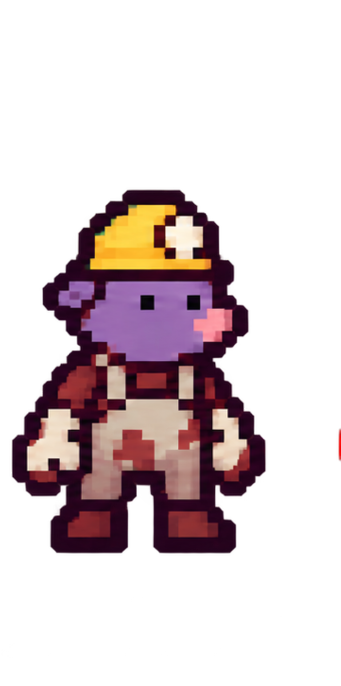
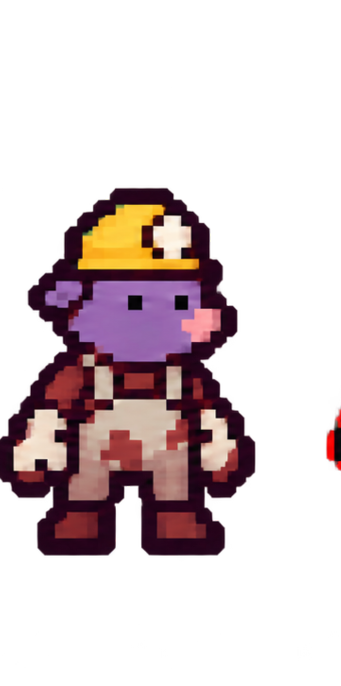
Brighten buried photos and intensify mole scribbles

Changed region(s): [[0.0, 0.2755, 0.7918, 0.8265], [0.9384, 0.5816, 1.0, 0.7041], [0.3519, 0.4286, 0.4692, 0.4592]]

diff --git a/index.html b/index.html
@@ -7,7 +7,7 @@
 *{box-sizing:border-box}html{scroll-behavior:smooth}body{margin:0;background:var(--bg);color:var(--text);font-family:'Malgun Gothic','Apple SD Gothic Neo',sans-serif}main{width:min(1180px,calc(100% - 28px));margin:auto;padding:26px 0 56px}header{display:flex;align-items:end;justify-content:space-between;gap:18px;border-bottom:1px solid var(--line);padding-bottom:18px}h1,h2,h3,p{margin:0}h1{font-size:28px;font-weight:700;color:var(--hot)}h2{font-size:21px;color:var(--mint);margin:36px 0 14px}h3{font-size:17px}.summary{display:flex;gap:18px;flex-wrap:wrap;color:var(--muted)}.summary b{color:var(--text);font-variant-numeric:tabular-nums}nav{position:sticky;top:0;z-index:2;background:rgba(18,9,28,.94);border-bottom:1px solid var(--line);display:flex;gap:18px;padding:12px 0;margin-bottom:4px}a{color:var(--text);text-decoration:none}a:hover{color:var(--hot)}.layers{display:grid;gap:10px}.layer{display:grid;grid-template-columns:120px minmax(150px,.65fr) 1.7fr 170px;gap:16px;align-items:center;background:var(--panel);padding:14px}.layer-visual{height:82px;display:grid;grid-template-columns:1fr 1fr;gap:4px}.layer-visual img{width:100%;height:82px;object-fit:contain;image-rendering:pixelated;background:var(--panel2)}.range{color:var(--gold);margin-top:6px;font-variant-numeric:tabular-nums}.meta{display:grid;grid-template-columns:repeat(2,minmax(0,1fr));gap:5px 12px;color:var(--muted);font-size:13px}.meta b{color:var(--text)}.spawns{display:flex;flex-wrap:wrap;gap:8px}.spawn{display:flex;align-items:center;gap:5px;background:var(--panel2);padding:5px 7px;font-size:12px;color:var(--muted)}.spawn img{width:24px;height:24px;object-fit:contain;image-rendering:pixelated}.income{text-align:right;font-variant-numeric:tabular-nums}.income b{display:block;color:var(--gold);font-size:17px}.income span{display:block;color:var(--muted);font-size:12px;margin-top:5px}.grid{display:grid;grid-template-columns:repeat(auto-fill,minmax(170px,1fr));gap:10px}.tile,.gear,.set{background:var(--panel);padding:13px;min-width:0}.tile-head,.gear-head{display:flex;align-items:center;gap:12px}.sprite{width:58px;height:58px;object-fit:contain;image-rendering:pixelated;flex:0 0 auto;background:var(--panel2)}.tile dl,.gear dl{display:grid;grid-template-columns:56px 1fr;gap:5px;margin:12px 0 0;font-size:12px}.tile dt,.gear dt{color:var(--muted)}.tile dd,.gear dd{margin:0;text-align:right;font-variant-numeric:tabular-nums}.set-grid{display:grid;grid-template-columns:repeat(auto-fit,minmax(230px,1fr));gap:10px}.set{display:grid;grid-template-columns:100px 1fr;gap:13px;align-items:center}.set img{width:100px;height:78px;object-fit:contain;image-rendering:pixelated;background:var(--panel2)}.price{color:var(--gold);margin-top:7px;font-variant-numeric:tabular-nums}.ability{color:var(--muted);font-size:13px;margin-top:7px;line-height:1.5}.note{color:var(--muted);font-size:12px;margin-top:-8px;margin-bottom:12px}@media(max-width:760px){header{align-items:start;flex-direction:column}.layer{grid-template-columns:92px 1fr}.spawns,.income{grid-column:1/-1}.income{text-align:left}.layer-visual,.layer-visual img{height:68px}.summary{gap:10px}.set-grid{grid-template-columns:1fr}}
 </style></head><body><main>
 <style>
-.landmark-grid{display:grid;grid-template-columns:repeat(auto-fit,minmax(260px,1fr));gap:10px}.landmark{background:var(--panel);padding:13px;display:grid;grid-template-columns:120px 1fr;gap:13px;align-items:center}.landmark img{width:120px;height:92px;object-fit:contain;image-rendering:pixelated;background:var(--panel2)}.landmark .meta{grid-template-columns:1fr}#horror{position:relative;margin-top:42px;padding:1px 14px 24px;background:radial-gradient(circle at 50% 88%,#260a22 0,#0a050d 54%,#030205 100%);box-shadow:0 0 55px #000 inset;overflow:hidden}#horror:before{content:' ';position:absolute;inset:0;pointer-events:none;background:repeating-linear-gradient(0deg,transparent 0 5px,rgba(255,25,104,.025) 6px 7px);mix-blend-mode:screen}.horror-stages{display:grid;gap:12px;position:relative}.horror-stage{background:#140a19;padding:13px;border:1px solid #2c142f}.horror-tiles{display:grid;grid-template-columns:repeat(8,minmax(0,1fr));gap:5px;margin-top:10px}.horror-tiles img{width:100%;aspect-ratio:1;object-fit:cover;image-rendering:pixelated;background:#09050c}.horror-grid{display:grid;grid-template-columns:1fr;gap:12px;margin-top:14px;position:relative}.horror-card{background:#120713;padding:13px;border:1px solid #3f143a}.horror-card h3{margin-bottom:10px}.horror-strip{display:grid;grid-template-columns:repeat(3,minmax(0,1fr));gap:6px}.horror-strip img{width:100%;height:110px;object-fit:contain;image-rendering:pixelated;background:#08040a}.horror-photo-card{position:relative;overflow:hidden;padding:18px;background:#030204;box-shadow:0 0 42px #000 inset,0 0 18px rgba(255,0,102,.18)}.horror-photo-card:before,.horror-photo-card:after{content:' ';position:absolute;left:-8%;width:116%;height:3px;z-index:2;pointer-events:none;opacity:.55}.horror-photo-card:before{top:31%;background:#ff176e;box-shadow:0 7px 0 #25d5df;animation:glitchLine 4.1s steps(1,end) infinite}.horror-photo-card:after{top:72%;background:#6c194f;animation:glitchLine 3.3s steps(1,end) reverse infinite}.horror-photo-card .horror-strip{gap:8px}.horror-photo-card img{height:190px;object-fit:cover;filter:brightness(.48) contrast(1.35) saturate(.72);animation:photoGlitch 5.6s steps(1,end) infinite}.horror-photo-card img:nth-child(2n){animation-delay:-1.7s}.horror-photo-card img:nth-child(3n){animation-delay:-3.2s}@keyframes glitchLine{0%,86%,100%{transform:translate(0,0)}87%{transform:translate(4%,36px)}89%{transform:translate(-3%,-22px)}91%{transform:translate(1%,9px)}}@keyframes photoGlitch{0%,91%,100%{transform:translate(0);clip-path:inset(0)}92%{transform:translate(-3px,1px);clip-path:inset(9% 0 58% 0)}94%{transform:translate(3px,-1px);clip-path:inset(57% 0 13% 0)}96%{transform:translate(-1px);clip-path:inset(0)}}@media(prefers-reduced-motion:reduce){.horror-photo-card:before,.horror-photo-card:after,.horror-photo-card img{animation:none}}@media(max-width:760px){.landmark{grid-template-columns:92px 1fr}.landmark img{width:92px}.horror-tiles{grid-template-columns:repeat(4,minmax(0,1fr))}.horror-photo-card img{height:120px}}
+.landmark-grid{display:grid;grid-template-columns:repeat(auto-fit,minmax(260px,1fr));gap:10px}.landmark{background:var(--panel);padding:13px;display:grid;grid-template-columns:120px 1fr;gap:13px;align-items:center}.landmark img{width:120px;height:92px;object-fit:contain;image-rendering:pixelated;background:var(--panel2)}.landmark .meta{grid-template-columns:1fr}#horror{position:relative;margin-top:42px;padding:1px 14px 24px;background:radial-gradient(circle at 50% 88%,#260a22 0,#0a050d 54%,#030205 100%);box-shadow:0 0 55px #000 inset;overflow:hidden}#horror:before{content:' ';position:absolute;inset:0;pointer-events:none;background:repeating-linear-gradient(0deg,transparent 0 5px,rgba(255,25,104,.025) 6px 7px);mix-blend-mode:screen}.horror-stages{display:grid;gap:12px;position:relative}.horror-stage{background:#140a19;padding:13px;border:1px solid #2c142f}.horror-tiles{display:grid;grid-template-columns:repeat(8,minmax(0,1fr));gap:5px;margin-top:10px}.horror-tiles img{width:100%;aspect-ratio:1;object-fit:cover;image-rendering:pixelated;background:#09050c}.horror-grid{display:grid;grid-template-columns:1fr;gap:12px;margin-top:14px;position:relative}.horror-card{background:#120713;padding:13px;border:1px solid #3f143a}.horror-card h3{margin-bottom:10px}.horror-strip{display:grid;grid-template-columns:repeat(3,minmax(0,1fr));gap:6px}.horror-strip img{width:100%;height:110px;object-fit:contain;image-rendering:pixelated;background:#08040a}.horror-photo-card{position:relative;overflow:hidden;padding:18px;background:#030204;box-shadow:0 0 42px #000 inset,0 0 18px rgba(255,0,102,.18)}.horror-photo-card:before,.horror-photo-card:after{content:' ';position:absolute;left:-8%;width:116%;height:3px;z-index:2;pointer-events:none;opacity:.55}.horror-photo-card:before{top:31%;background:#ff176e;box-shadow:0 7px 0 #25d5df;animation:glitchLine 4.1s steps(1,end) infinite}.horror-photo-card:after{top:72%;background:#6c194f;animation:glitchLine 3.3s steps(1,end) reverse infinite}.horror-photo-card .horror-strip{gap:8px}.horror-photo-card img{height:190px;object-fit:cover;filter:brightness(.62) contrast(1.28) saturate(.78);animation:photoGlitch 5.6s steps(1,end) infinite}.horror-photo-card img:nth-child(2n){animation-delay:-1.7s}.horror-photo-card img:nth-child(3n){animation-delay:-3.2s}@keyframes glitchLine{0%,86%,100%{transform:translate(0,0)}87%{transform:translate(4%,36px)}89%{transform:translate(-3%,-22px)}91%{transform:translate(1%,9px)}}@keyframes photoGlitch{0%,91%,100%{transform:translate(0);clip-path:inset(0)}92%{transform:translate(-3px,1px);clip-path:inset(9% 0 58% 0)}94%{transform:translate(3px,-1px);clip-path:inset(57% 0 13% 0)}96%{transform:translate(-1px);clip-path:inset(0)}}@media(prefers-reduced-motion:reduce){.horror-photo-card:before,.horror-photo-card:after,.horror-photo-card img{animation:none}}@media(max-width:760px){.landmark{grid-template-columns:92px 1fr}.landmark img{width:92px}.horror-tiles{grid-template-columns:repeat(4,minmax(0,1fr))}.horror-photo-card img{height:120px}}
 </style>
 <header><h1>DDDig 밸런스 도감</h1><div class="summary"><span>&#45320;&#48708; <b>15&#8594;1&#52856;</b></span><span>&#52572;&#51333; &#44618;&#51060; <b>4,444</b></span><span>&#51648;&#52789; <b>10</b></span><span>&#48372;&#47932;&#49345;&#51088; <b>500&#53076;&#51064;</b></span></div></header>
 <nav><a href="#layers">지층</a><a href="#blocks">블록</a><a href="#landmarks">매장물</a><a href="#pickaxes">곡괭이</a><a href="#sets">세트</a><a href="#horror">공포 모드</a></nav>
